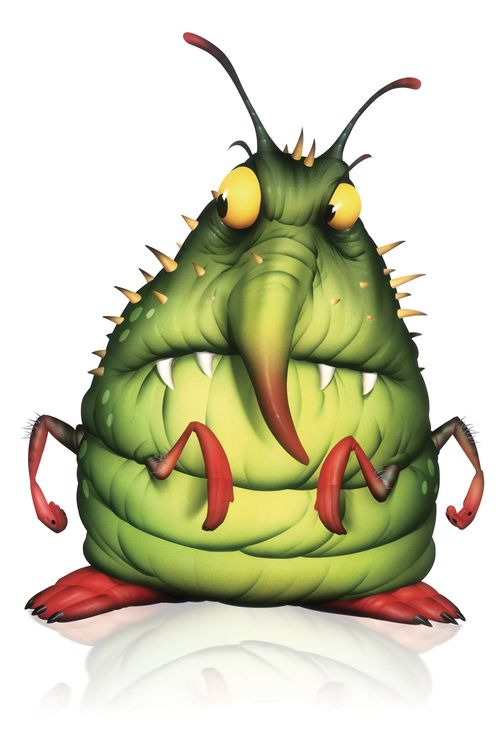
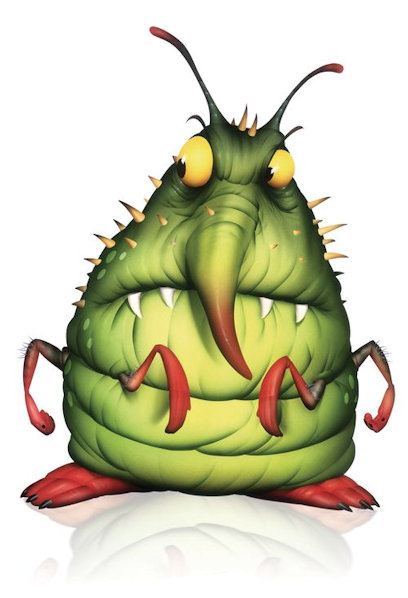
normalized combat image sizes

Changed region(s): [[0.1471, 0.6923, 0.1765, 0.7525], [0.6765, 0.2107, 0.7059, 0.2408], [0.5, 0.1806, 0.5294, 0.2107]]

diff --git a/css/combat.css b/css/combat.css
@@ -1,7 +1,6 @@
-
 h1 {
-    text-align: center;
-    font-size: 8vw;
+  text-align: center;
+  font-size: 8vw;
 }
 
 header > nav > a > img {
@@ -22,46 +21,48 @@ div.outerMeter {
 #hero-stats ul {
   float: left;
   margin: 0;
-  }
+}
 
 #monster-stats {
   text-align: left;
   width: 50%;
-  position:absolute;
+  position: absolute;
   top: 10%;
   right: 0;
 }
 
 #monster-stats ul {
   float: right;
-    margin: 0;
-  }
+  margin: 0;
+}
 
 #attack-actions ul {
   text-align: center;
 }
 
 #stats-header {
-   height: 9vw;
-   position: relative;
+  height: 9vw;
+  position: relative;
 }
 
 #combat-arena {
-  position:relative;
+  position: relative;
   height: 22vw;
 }
 
 img {
   position: absolute;
   width: 20vw;
+  
   top: 10%;
 }
 
 #hero-img {
   left: 20%;
+  height: 19vw;
 }
 
 #monster-img {
   right: 20%;
+  height: 19vw;
 }
-
